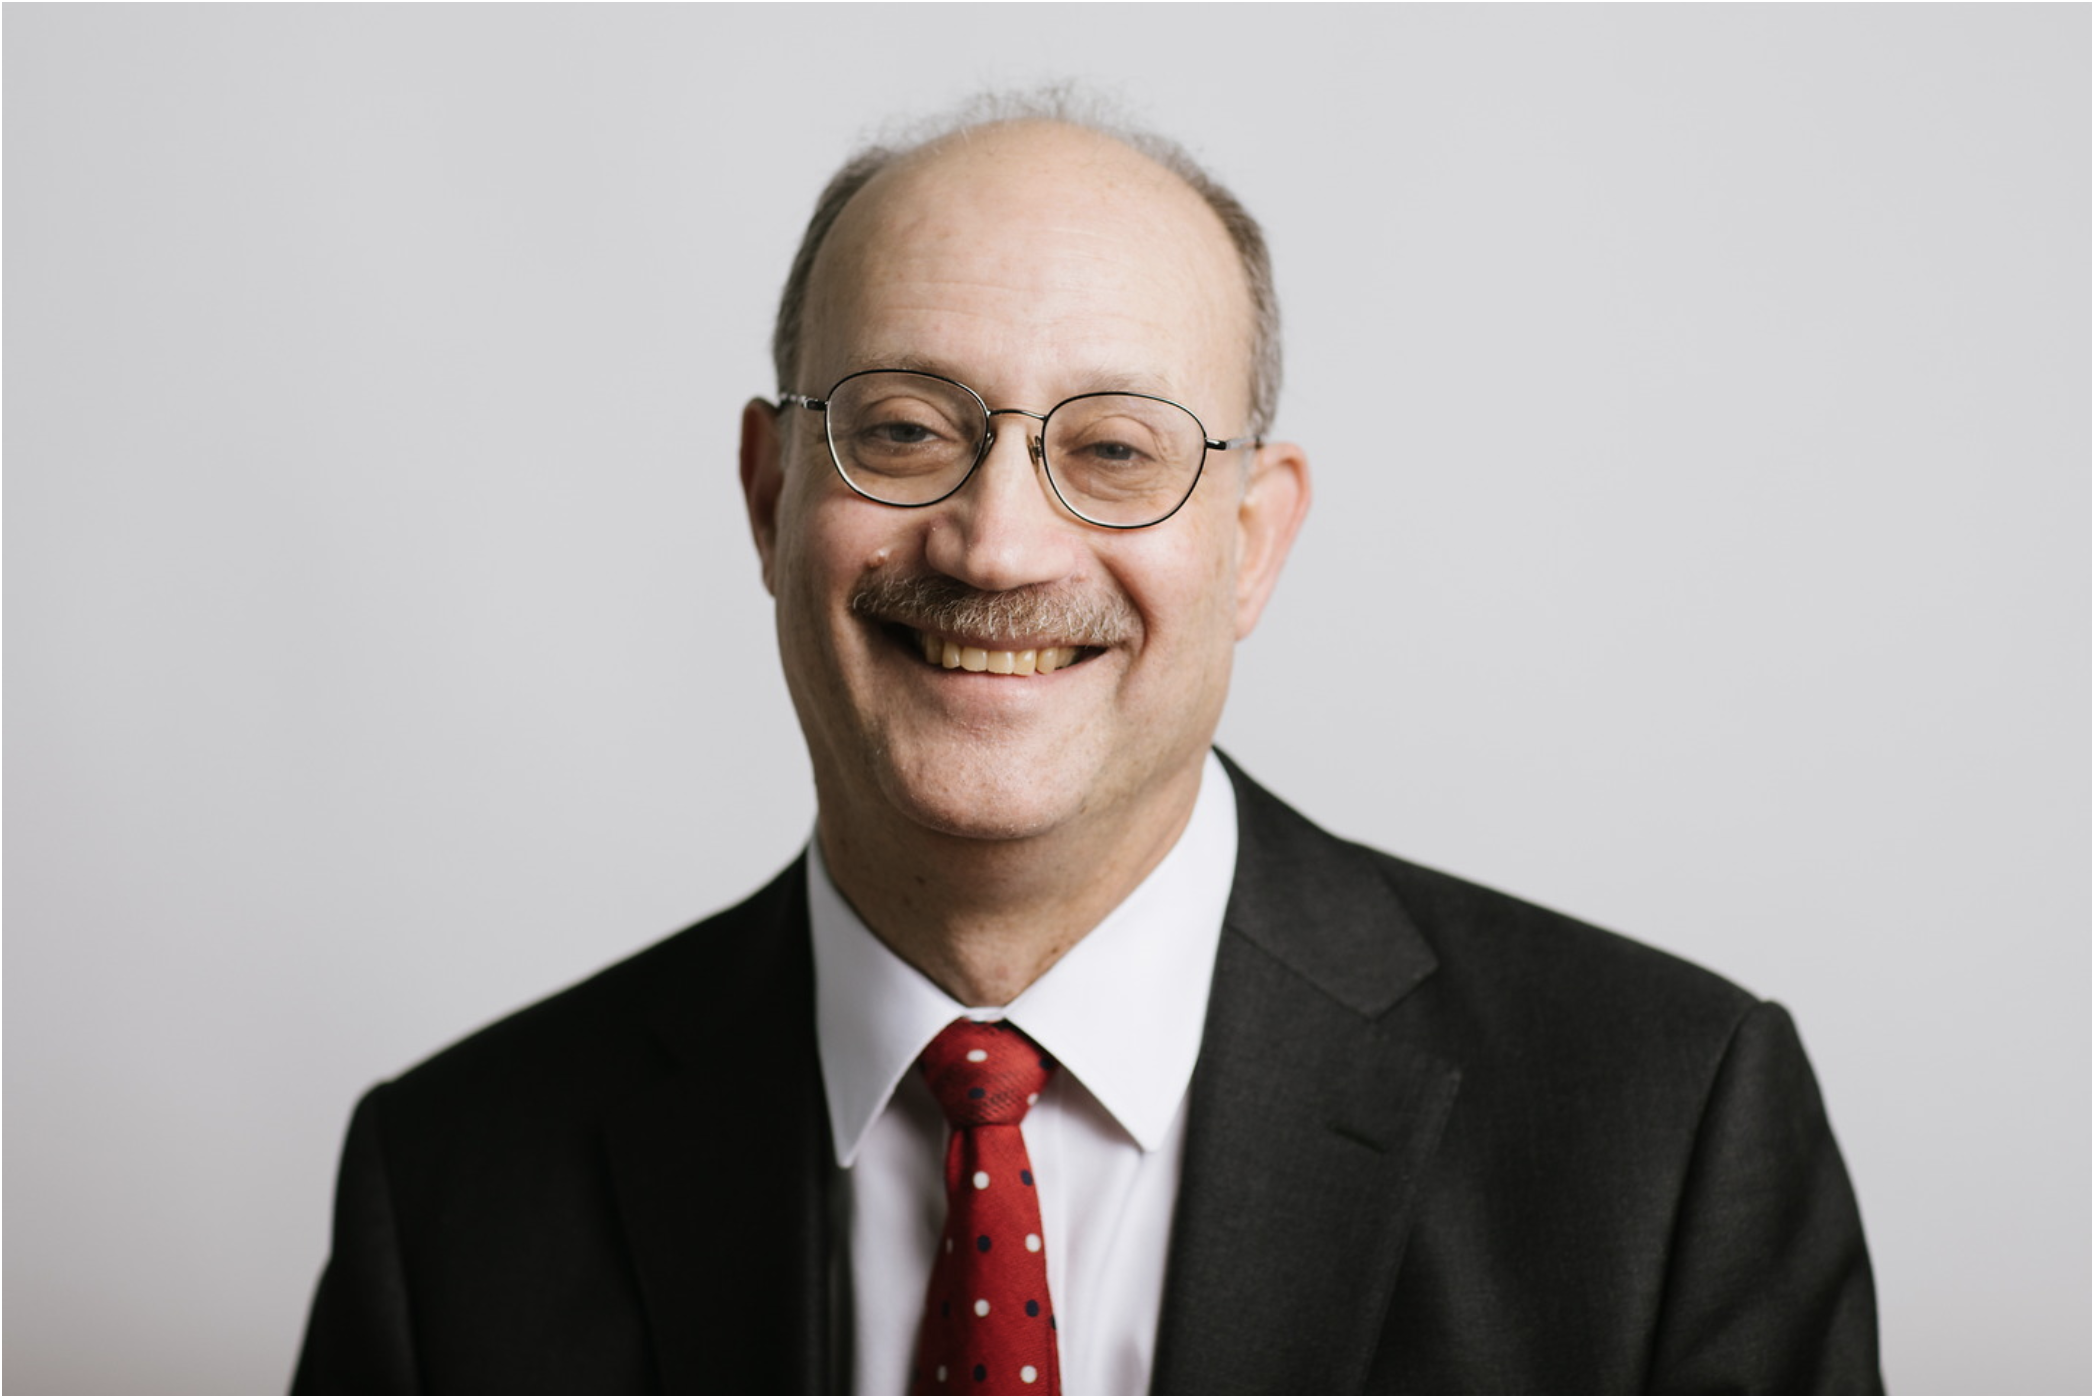
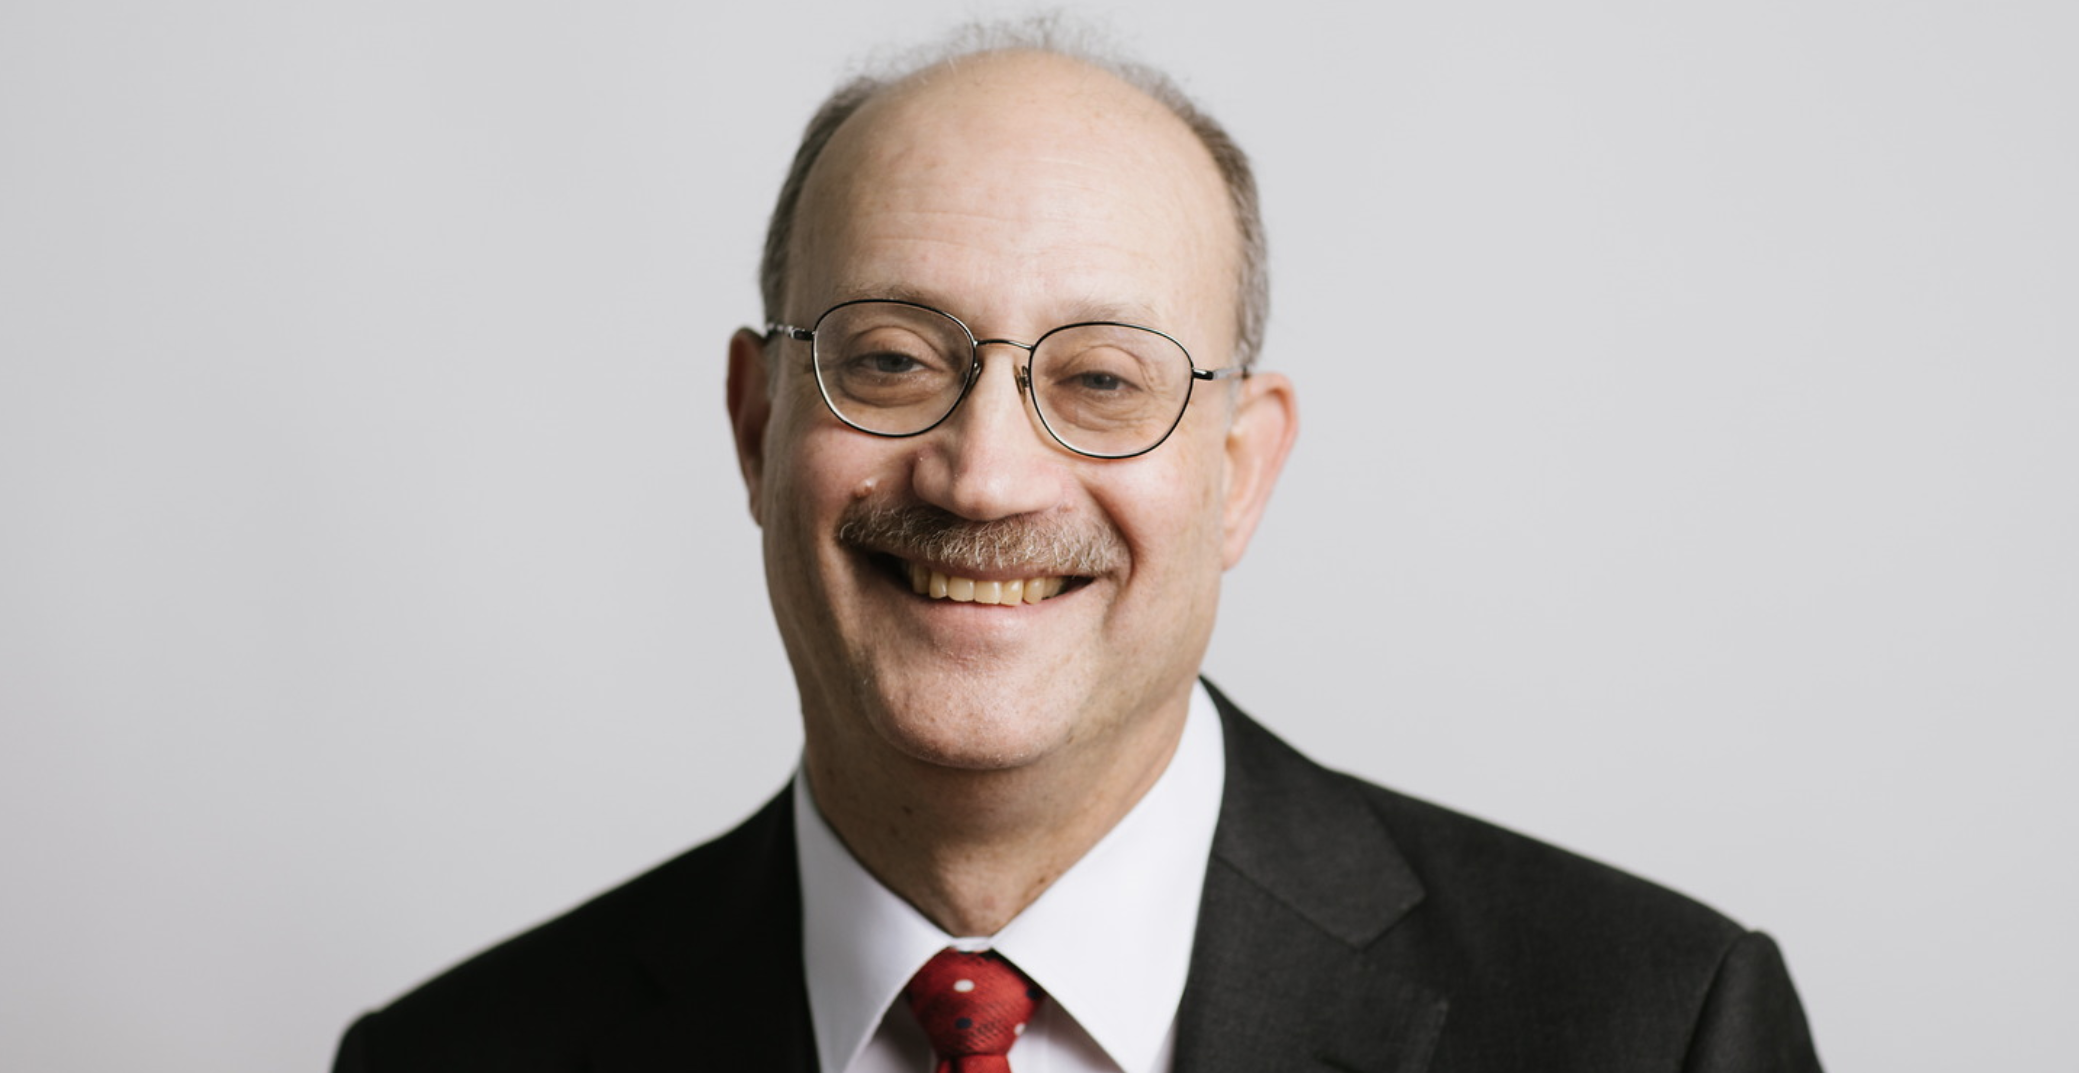
testimonial design

Changed region(s): [[0.0, 0.0, 0.9049, 1.0], [0.6241, 0.7996, 0.6553, 0.8304]]

diff --git a/src/App.css b/src/App.css
@@ -1,5 +1,5 @@
-/*darkblue: #00357F*/
-/*lightblue: #4682B4 */
+/*darkblue: #0050A0 */
+/*newlightblue: #12A8E0; */
 
 .App {
   text-align: center;
@@ -23,18 +23,27 @@ p {
   grid-template-areas: 
       "t t t t t t t t t t t t"
       "h h h h h h h h h h h h"
-      "b b b b b b n n n n n n"
+      "b b b b n n n n n n n n"
       "c c c c c c c c c c c c"
       "f f f f f f f f f f f f";
 }
 
 .topHeader{
+  position: fixed;
+  top: 0;
+  width: 100%;
   background-color: #27598C;
   grid-area: t;
   display: grid;
   grid-gap: 3px;
   grid-template-columns: repeat(12, 1fr);
   border-bottom: 1px #00357F solid
+}
+
+.sticky{
+  position: fixed;
+  top: 0;
+  width: 100%
 }
 
 .callToday{
@@ -48,14 +57,16 @@ p {
   grid-column: 10/13;
   font-size: 35px;
   color: white; 
-  background-color: #3D97C0;
+  background-color: #12A8E0;
   padding: 5%;
 }
 
 .header {
   background-color: white;
   grid-area: h;
-  padding: 1%;
+  padding-top: 5%;
+  padding-left: 1%;
+  padding-right: 1%;
   /*border: red 1px solid;*/
   /*background-color: #F9F9FA;*/
 }
@@ -64,7 +75,7 @@ p {
   text-align: left;
   font-size: 75px;
   text-decoration: none;
-  color: #3D97C0; 
+  color: #12A8E0; 
 }
 
 .nameSub{
@@ -78,7 +89,7 @@ ul {
   grid-area: n;
   list-style-type: none;
   margin: 0;
-  padding: 15px;
+  padding: 20px;
   overflow: hidden;
   background-color: white;
 }
@@ -91,15 +102,15 @@ li {
 li a, .dropbtn {
   display: inline-block;
   color: #416F9D;
-  font-size: 50px;
+  font-size: 30px;
   text-align: center;
-  padding: 15px 20px;
+  padding: 15px 60px;
   text-decoration: none;
 }
 
 
 li a:hover, .dropdown:hover .dropbtn {
-  background-color: #3D97C0;
+  background-color: #12A8E0;
   color: white;
 }
 
@@ -127,7 +138,7 @@ li.dropdown {
 }
 
 .dropdown-content a:hover {
-  color: #3D97C0;
+  color: #12A8E0;
   background-color: #f1f1f1;
   font-size: 30px;
 }
@@ -192,7 +203,9 @@ li.dropdown {
   grid-template-areas: 
       "w w w w w w w w w w w w"
       "p p p p p p p p p p p p"
-      "m m m m d d d d d d d d";
+      "m m m m d d d d d d d d"
+      "r r r r r r r r r r r r"
+      "c c c c c c c c c c c c";
   background-color: white;
   grid-area: c;
   padding: 0%;
@@ -238,6 +251,59 @@ li.dropdown {
   color: #5296BC;
   font-weight: bold;
   border-bottom: rgb(240,240,240) solid 1px;
+}
+
+.testimonial{
+  grid-area: r;
+}
+
+.testimonialContainer{
+  display: grid;
+  grid-template-columns: repeat(12, 1fr);
+  grid-template-rows: 50% 50%;
+  grid-template-areas: 
+      "a a a a a a a a b b b b"
+      "c c c c d d d d d d d d";
+  color: white;
+  font-size: 40px;
+}
+
+.testimonial1{
+  grid-area: a;
+  background: #119EDC;
+  padding: 10%;
+
+}
+
+.testimonial2{
+  grid-area: b;
+  background: #8EA1AF;
+  padding: 20%;
+}
+
+.testimonial3{
+  grid-area: c;
+  background: #8EA1AF;
+  padding: 20%;
+}
+
+.testimonial4{
+  grid-area: d;
+  background: #2F2E2C;
+  padding: 10%;
+}
+
+.resources{
+  border: red solid 1px;
+  grid-area: c;
+}
+
+.resourcesContainer{
+  display: block;
+}
+
+.resourcesItem{
+
 }
 
 .educational{

diff --git a/src/components/header/Nav.js b/src/components/header/Nav.js
@@ -5,7 +5,7 @@ class Nav extends React.Component {
   render() {
     return (
       <ul>
-        
+        <li><NavLink activeClassName="active" className="dropbtn" to="/contact">CONTACT</NavLink></li>
         <li class="dropdown">
           <a href="javascript:void(0)" class="dropbtn">TESTIMONIALS</a>
           <div class="dropdown-content">
@@ -19,8 +19,7 @@ class Nav extends React.Component {
           <a href="javascript:void(0)" class="dropbtn">PATIENTS</a>
           <div class="dropdown-content">
             <NavLink activeClassName="active" to="/educate">Education</NavLink>
-            <a href="#">Link 2</a>
-            <a href="#">Link 3</a>
+            <a href="#">FAQ</a>
           </div>
         </li>
         <li><NavLink activeClassName="active" className="dropbtn" to="/">ABOUT</NavLink></li>

diff --git a/src/components/content/Testimonial.js b/src/components/content/Testimonial.js
@@ -1,0 +1,26 @@
+import React from 'react'
+
+class Testimonial extends React.Component {
+	render(){
+	return(
+		<div className="testimonial">
+			<div className="testimonialContainer">
+				<div className="testimonial1">
+						Hello From the Testimonial 1
+				</div>
+				<div className="testimonial2">
+						Hello From the Testimonial 2
+				</div>
+				<div className="testimonial3">
+						Hello From the Testimonial 3
+				</div>
+				<div className="testimonial4">
+							Hello From the Testimonial 4
+				</div>
+			</div>
+		</div>
+	)
+	}
+}
+
+export default Testimonial

diff --git a/src/components/content/Resources.js b/src/components/content/Resources.js
@@ -1,0 +1,23 @@
+import React from 'react'
+
+class Resources extends React.Component{
+	render(){
+		return(
+			<div className="resources">
+			 <div className="resourcesContainer">
+				<div className = "resourcesItem">
+					Resource One
+				</div>
+				<div className = "resourcesItem">
+					Resource Two
+				</div>
+				<div className = "resourcesItem">
+					Resource Three
+				</div>
+			 </div>
+			</div>
+		)
+	}
+}
+
+export default Resources

diff --git a/src/components/content/About.js b/src/components/content/About.js
@@ -2,6 +2,8 @@ import React from 'react'
 import Awards from '../header/Awards'
 import Menu from '../menu/MenuContainer'
 import SpineImage from '../header/SpineImage'
+import Testimonial from './Testimonial'
+import Resources from './Resources'
 
 const About = () => {
 	return(
@@ -41,8 +43,9 @@ const About = () => {
 
 					</div>
 				</div>
-
 			</div>
+			<Testimonial/>
+			<Resources/>
 		</div>
 	)
 }
